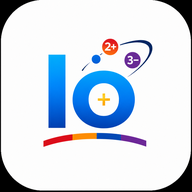
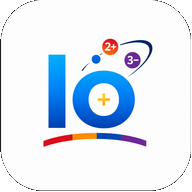
assets: corrige esquinas negras de los iconos PWA y agrega iconos maskable
El icono de IonNom se veía con esquinas cuadradas y oscuras en el cajón
de aplicaciones de Android, a diferencia del redondeado limpio de
ChromaNom. Causa: icon-192.png/icon-512.png/iononpwa.png tenían las
esquinas (fuera de la tarjeta blanca redondeada dibujada dentro del PNG)
en negro OPACO en vez de transparentes -- sin ningún icono "maskable"
declarado en manifest.json, Android no aplicaba su propia máscara de
forma, así que mostraba el PNG tal cual, con esas esquinas negras
visibles contra el fondo de pantalla.

- Esquinas de los 3 PNG transparentadas (relleno por inundación desde
  cada esquina, sin tocar el contenido del logo).
- Nuevos assets/icon-192-maskable.png y icon-512-maskable.png: el mismo
  logo sobre fondo blanco a sangre completa (sin transparencia), con el
  contenido muy por dentro de la zona segura del 80% -- lo que exige un
  icono "maskable" para que Android pueda recortarlo a cualquier forma
  (círculo, cuadrado redondeado, etc.) sin cortar el logo.
- manifest.json: se agregan esas 2 entradas con purpose:"maskable",
  conservando las 2 "any" ya existentes (ahora con esquinas
  transparentes en vez de negras).
- sw.js: los 2 iconos maskable nuevos se agregan a ASSETS_TO_CACHE,
  CACHE_NAME v36->v37.

Verificado: manifest.json válido (json.load), los 2 PNG nuevos sirven
200 por HTTP, regresión completa de las páginas existentes sin errores
(incluidas las que usan iononpwa.png como logo inline en el nav).
[…]

Changed region(s): [[0.0, 0.0, 1.0, 1.0], [0.0, 0.0, 0.1875, 0.1875]]

diff --git a/sw.js b/sw.js
@@ -1,4 +1,4 @@
-const CACHE_NAME = 'ionom-v36';
+const CACHE_NAME = 'ionom-v37';
 const SCOPE = '/ionom/';
 const ASSETS_TO_CACHE = [
   '/ionom/index.html',
@@ -23,6 +23,8 @@ const ASSETS_TO_CACHE = [
   '/ionom/assets/logo.png',
   '/ionom/assets/icon-192.png',
   '/ionom/assets/icon-512.png',
+  '/ionom/assets/icon-192-maskable.png',
+  '/ionom/assets/icon-512-maskable.png',
   '/ionom/assets/shared-tokens.css',
   '/ionom/assets/ionom.css',
   '/ionom/assets/ionom-ui.js',
